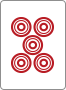
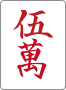
Release v69: correct red-five assets and notation aliases

Changed region(s): [[0.1515, 0.1111, 0.8182, 0.8889]]

diff --git a/index.html b/index.html
@@ -1052,14 +1052,14 @@
     <div class="loading" id="loading">牌姿を準備しています…</div>
   </div>
 
-  <script src="config.js?v=68"></script>
-  <script src="question-metadata.js?v=68"></script>
+  <script src="config.js?v=69"></script>
+  <script src="question-metadata.js?v=69"></script>
   <script>
     "use strict";
 
     const APP_ID = "zundamon-nanikiru";
     const APP_BASE_PATH = "/zundamon-nanikiru/";
-    const APP_VERSION = 68;
+    const APP_VERSION = 69;
     const { previewAudienceLabel } = window.ZUNDAMON_QUESTION_METADATA;
     const storageKey = (name) => `${APP_ID}:${name}`;
     const STORAGE_KEY = storageKey("state-v2");
@@ -1212,12 +1212,9 @@
     }
 
     function explanationTilePath(code) {
-      // Older inline assets have no wind/white tiles; use the approved complete set for those.
-      if (/^[1-5]z$/.test(code)) return tilePath(code);
+      // Keep red fives identical to the hand; older inline assets also lack winds/white.
+      if (/^0[mps]$|^[1-5]z$/.test(code)) return tilePath(code);
       const cacheVersion = `?v=${APP_VERSION}`;
-      if (code === "0m") return "tiles/explanation/aka1-66-90-l.png" + cacheVersion;
-      if (code === "0p") return "tiles/explanation/aka2-66-90-l.png" + cacheVersion;
-      if (code === "0s") return "tiles/explanation/aka3-66-90-l.png" + cacheVersion;
       const number = Number(code[0]);
       const suit = code[1];
       if (suit === "z") return `tiles/explanation/ji${number}-66-90-l.png${cacheVersion}`;
@@ -1311,6 +1308,8 @@
       if (normalized === "中") return "7z";
       const red = /^(?:r5|赤5|0)([mps])$/u.exec(normalized);
       if (red) return `0${red[1]}`;
+      const namedRed = /^aka([1-3])$/.exec(normalized);
+      if (namedRed) return `0${"mps"[Number(namedRed[1]) - 1]}`;
       if (/^[1-7]z$/.test(normalized)) return normalized;
       const numbered = /^([1-9])([mps])$/u.exec(normalized);
       return numbered ? `${numbered[1]}${numbered[2]}` : null;
@@ -1318,7 +1317,7 @@
 
     function isExplanationTileBoundary(text, index, length) {
       const adjacentText = `${text[index - 1] || ""}${text[index + length] || ""}`;
-      return !/[0-9a-zＡ-Ｚａ-ｚ]/iu.test(adjacentText);
+      return !/[0-9０-９a-zＡ-Ｚａ-ｚ]/iu.test(adjacentText);
     }
 
     function isMahjongMiddle(text, index) {
@@ -1331,7 +1330,7 @@
     }
 
     function appendExplanationText(container, text) {
-      const pattern = /(?:r[5５]|赤[5５])[mpsｍｐｓ]|[0-9０-９]+[mpsｍｐｓ]|[1-7１-７][zｚ]|發|中/giu;
+      const pattern = /[aａ][kｋ][aａ][1-3１-３]|(?:[rｒ][5５]|赤[5５])[mpsｍｐｓ]|[0-9０-９]+[mpsｍｐｓ]|[1-7１-７][zｚ]|發|中/giu;
       let lastIndex = 0;
       for (const match of text.matchAll(pattern)) {
         const token = match[0];

diff --git a/admin.html b/admin.html
@@ -274,8 +274,8 @@
     </section>
   </main>
 
-  <script src="config.js?v=68"></script>
-  <script src="question-metadata.js?v=68"></script>
+  <script src="config.js?v=69"></script>
+  <script src="question-metadata.js?v=69"></script>
   <script>
     "use strict";
     const { previewAudienceLabel } = window.ZUNDAMON_QUESTION_METADATA;

diff --git a/AGENTS.md b/AGENTS.md
@@ -235,6 +235,10 @@ tiles/
 
 別の麻雀アプリでも、原則として絵文字牌や外部牌画像で代用しない。
 
+- 赤牌の対応は `赤5m = r5m = aka1 = 0m`、`赤5p = r5p = aka2 = 0p`、`赤5s = r5s = aka3 = 0s`。`r` の大文字・小文字と全角・半角を区別しない（2026-09-08 ユーザー指定）。
+- 解説内の別表記は表示時だけ正規コードへ解釈する。既存の解説原文は書き換えず、新規の保存データは引き続き `0m` / `0p` / `0s` を使う。
+- 赤牌画像は手牌・解説とも `tiles/aka1-66-90-l.png`（萬）、`aka2`（筒）、`aka3`（索）を共通利用する。ファイル名だけを信用せず、実画像との対応を検証する。
+
 ## 動画由来の問題追加
 
 1〜3分程度の動画から何切る問題を追加・修正する時は、必ず `VIDEO_QUESTION_INGESTION.md` を読む。

diff --git a/VIDEO_QUESTION_INGESTION.md b/VIDEO_QUESTION_INGESTION.md
@@ -16,6 +16,8 @@
 | 字牌 | `1z` 東、`2z` 南、`3z` 西、`4z` 北、`5z` 白、`6z` 發、`7z` 中 |
 | 赤5 | `0m`、`0p`、`0s` |
 
+赤牌の表示用同義表記は `赤5m = r5m = aka1 = 0m`、`赤5p = r5p = aka2 = 0p`、`赤5s = r5s = aka3 = 0s`。大文字・小文字と全角・半角は表示時に正規化する。新規データの保存表記は上表の `0m` / `0p` / `0s` を維持し、ユーザーの既存原文は書き換えない。
+
 - 解説の結論は `打6m。`、`打4zリーチ。` のように書く。
 - 複数牌は必ず一牌ずつ書く。`3s・6s・9s待ち`、`3p・4p・5pのチー` のようにし、`3・6・9索`、`345p`、`六萬` は使わない。
 - 新規に執筆する `videoExplanation`、`explanation`、`note` では、牌を指す漢字、Unicode 牌、牌画像の HTML、Markdown 画像を保存しない。
